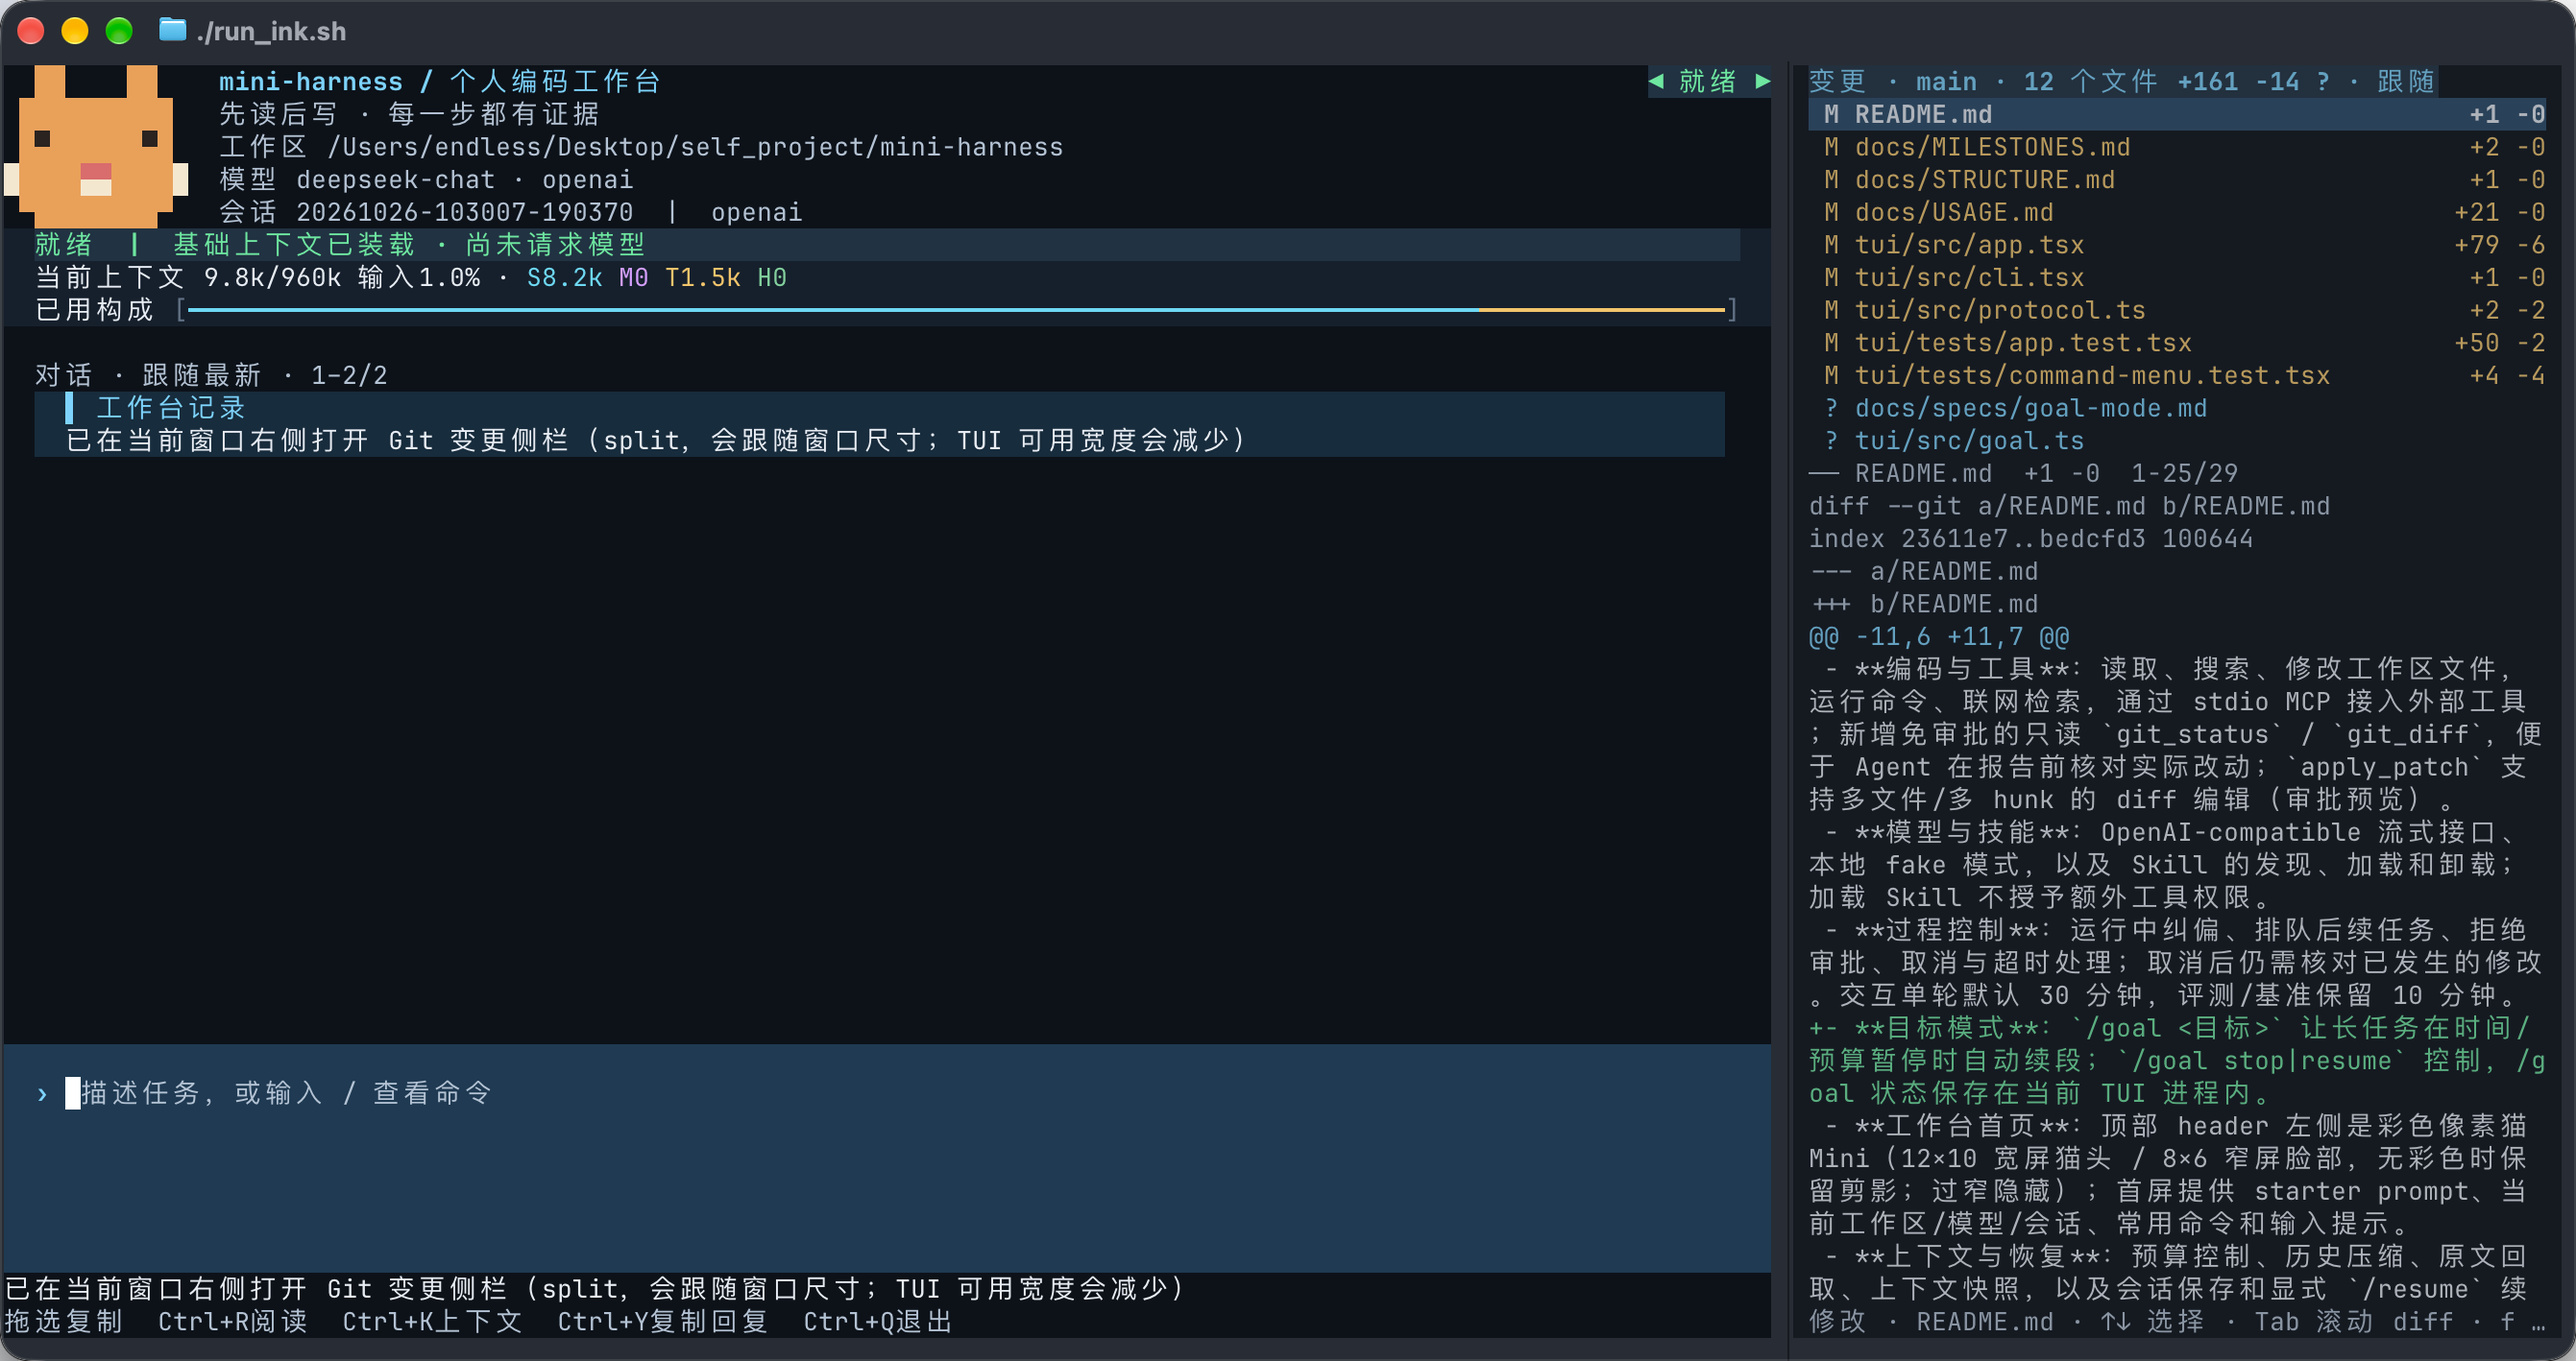
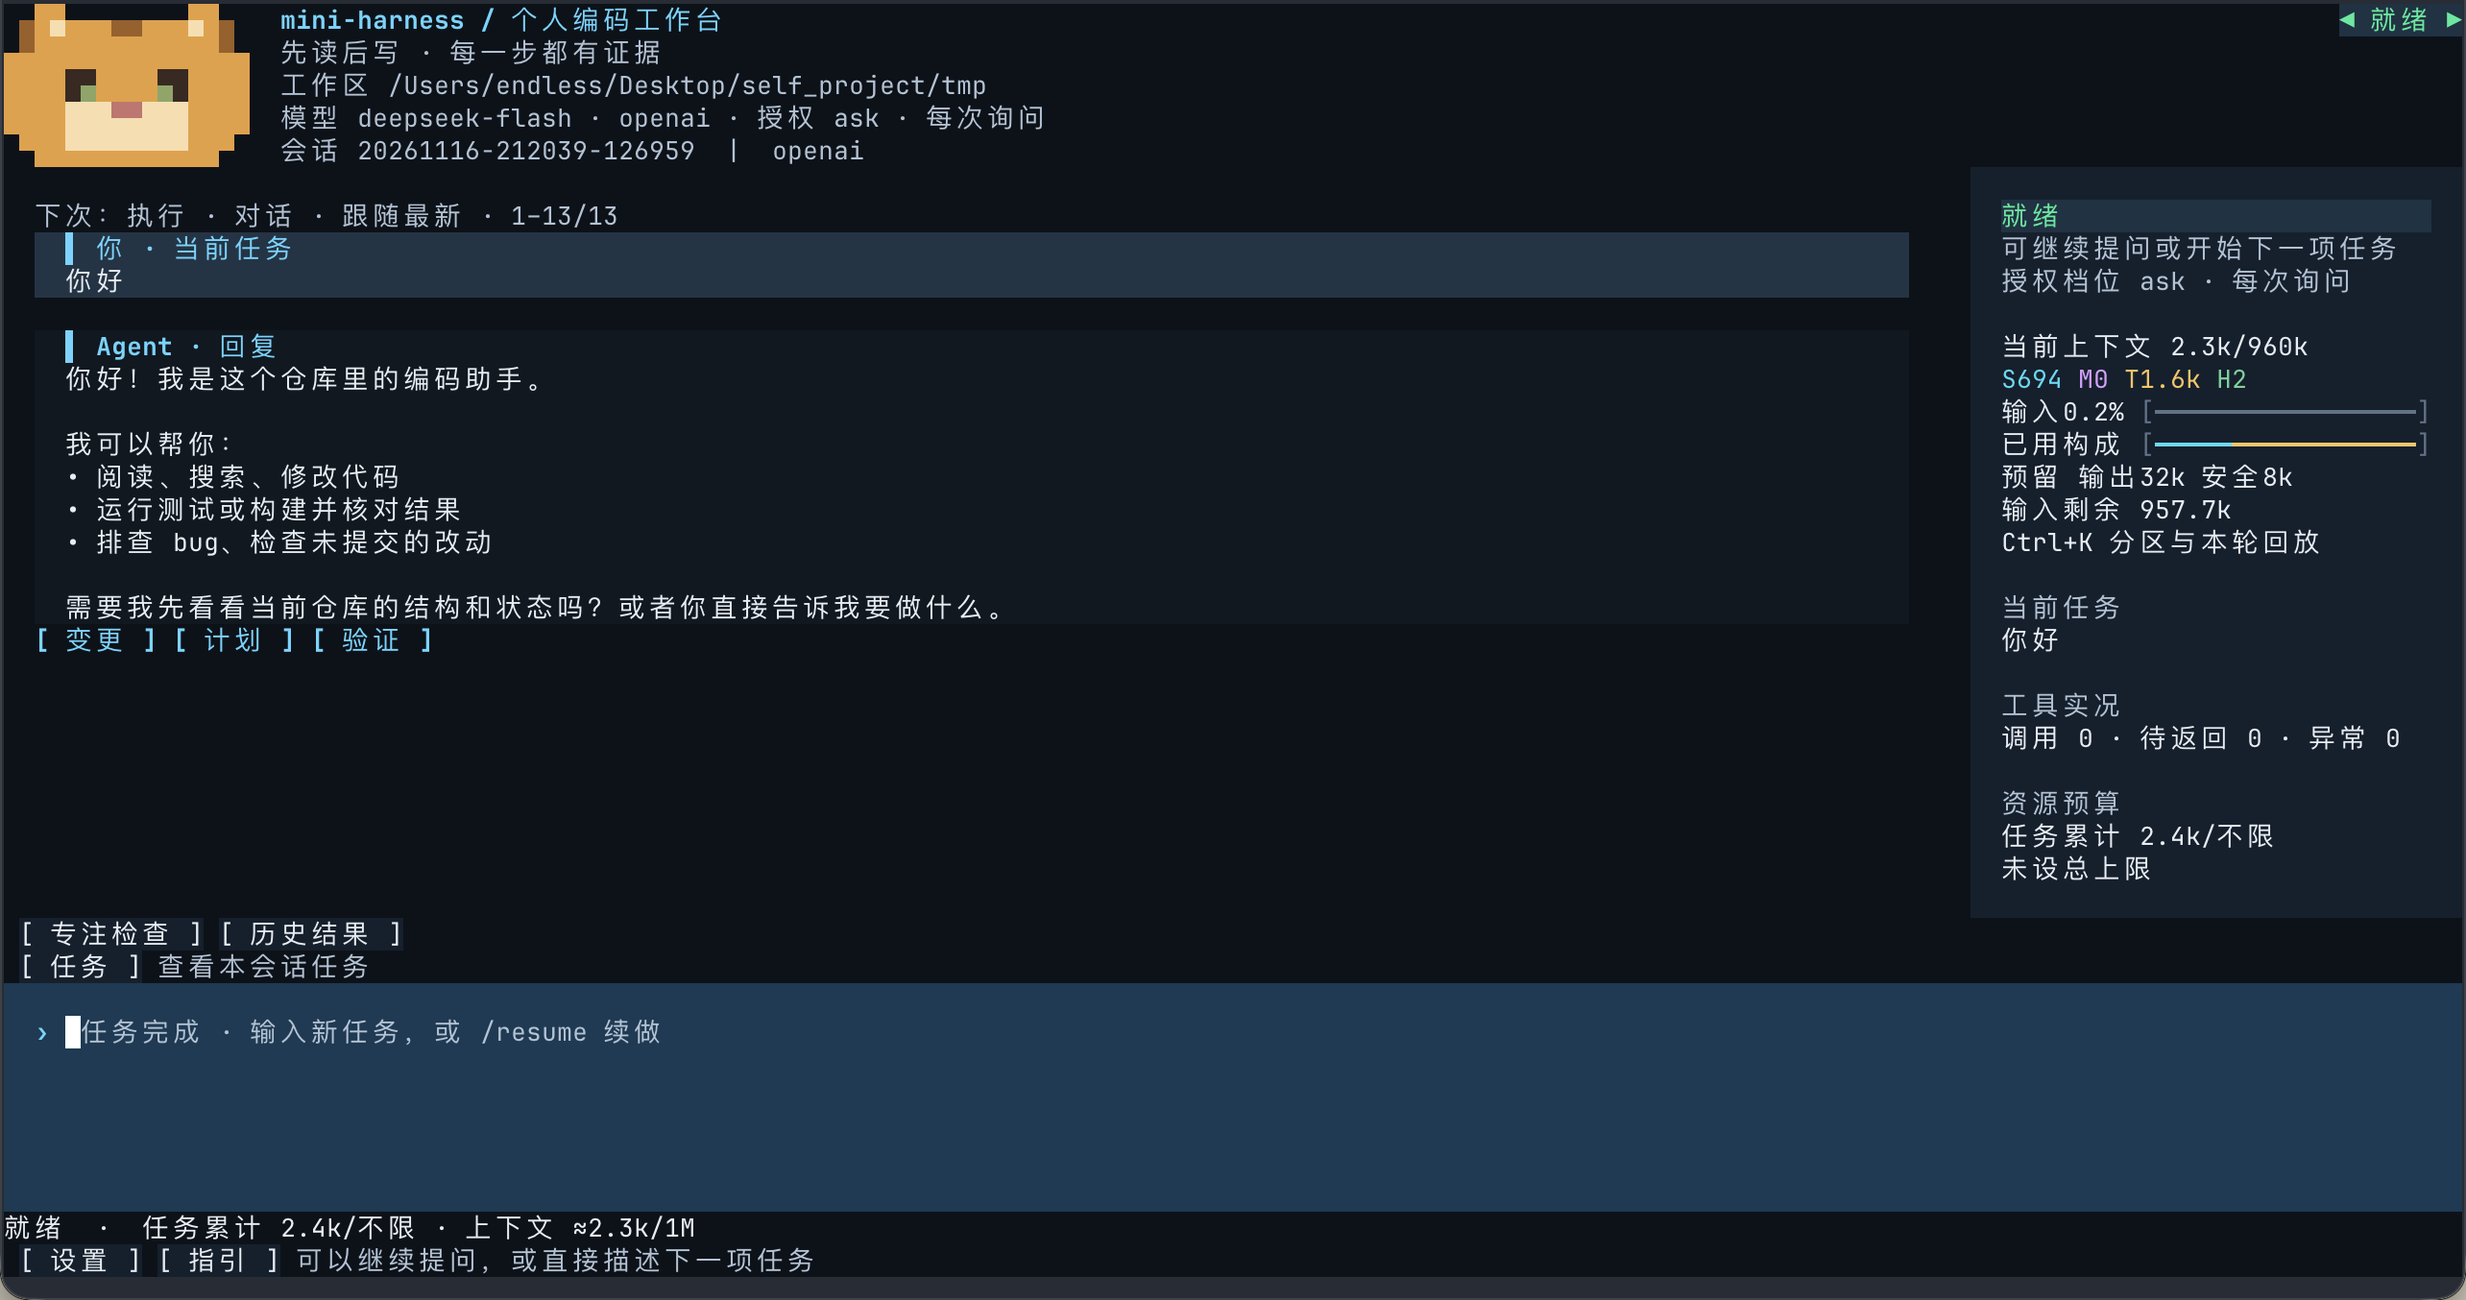
docs: replace README placeholders with real screenshots

diff --git a/docs/assets/screenshots/README.md b/docs/assets/screenshots/README.md
@@ -1,6 +1,6 @@
 # README 截图指引
 
-这里的 SVG 是明确标注的占位图，不是产品界面。主 README 已预留四个位置；按下表保存真实截图，然后把主 README 中对应的 `.svg` 改成 `.png` 即可。无需改动布局。
+主 README 已使用 `docs/assets/` 中的四张真实 PNG 截图。本目录的 SVG 保留为备用占位素材，不再用于首页展示。以后直接替换对应 PNG 即可，无需改动布局。
 
 | 文件名 | 建议展示什么 | 如何进入这个画面 |
 | --- | --- | --- |
@@ -19,10 +19,9 @@
 
 ## 替换步骤
 
-1. 将四张图片保存到本目录，使用表格中的文件名。
-2. 在仓库根目录 README 中搜索 `SCREENSHOT` 注释，找到主图和三张功能图的引用，把后缀 `.svg` 改为 `.png`。
-3. 删除首页“以上为明确标注的截图占位”那一段；如果只补了部分图片，改成说明剩余截图位。
-4. 在 GitHub 或支持 GitHub Markdown 的预览中检查图片比例、文字清晰度和三栏排版。
-5. 全部换好后，可以删除不再使用的 SVG。已有 `docs/assets/workbench.png` 是早期界面参考，确认不再需要后再移除折叠参考区。
+1. 将更新后的图片保存到 `docs/assets/`，使用表格中的文件名。
+2. 主 README 已引用这些 PNG；保持文件名不变时，无需修改链接。
+3. 在 GitHub 或支持 GitHub Markdown 的预览中检查图片比例、文字清晰度和三栏排版。
+4. 图片说明应与实际内容一致；当前 `verification.png` 展示变更侧栏及计划、验证入口，不代表测试通过记录。
 
-以后只更新 PNG 文件即可，不必再次改 README 引用。可选录制一段 20–40 秒的真实终端演示，依次展示任务 → 审批 → 验证，并在 README 主图下附链接。
+可选录制一段 20–40 秒的真实终端演示，依次展示任务 → 审批 → 验证，并在 README 主图下附链接。
